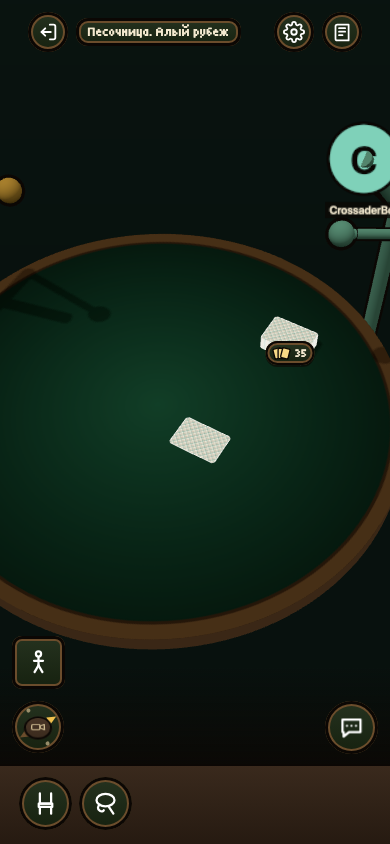
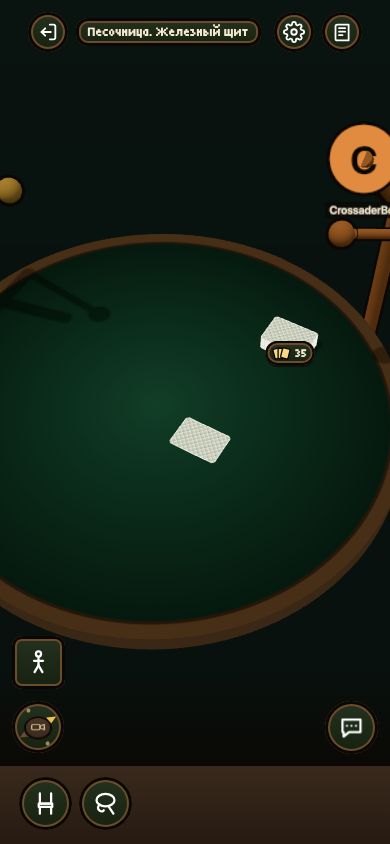
Песочница 3D, окно стопки: размер и место — два независимых выбора (два переключателя в заголовке, оба помнит устройство). Размер: «экран» — зум не меняет окно; «стопки» — растёт и мельчает вместе со стопкой на экране (во сколько раз она стала крупнее или мельче с открытия окна — раньше масштаб упир

Changed region(s): [[0.8308, 0.1232, 1.0, 0.4005], [0.4, 0.0, 0.6769, 0.0616]]

diff --git a/table3d/src/hud.ts b/table3d/src/hud.ts
@@ -334,10 +334,12 @@ export function mountHud(root: HTMLElement, stage: HTMLElement, store: TableStor
    */
   /** Где окно стопки и его веер: одно на рисование и на прицел несомой карты. `n` — сколько мест в веере. */
   /**
-   * ГДЕ ОКНО СТОПКИ И ЕГО ВЕЕР — одно на рисование и на прицел несомой карты. Три способа (`tipMode`, помнит устройство):
-   *   screen  — размер по экрану, место — у стопки (прижато к краям кадра);
-   *   element — прибито к стопке: под ней и её размера — ближе камера, крупнее окно (масштаб `k` от ширины её карты);
-   *   pinned  — там, где открылось (или куда его перенесли за заголовок), и не двигается с камерой.
+   * ГДЕ ОКНО СТОПКИ И ЕГО ВЕЕР — одно на рисование и на прицел несомой карты. Два независимых выбора (помнит устройство):
+   *   размер  «по экрану» — окно своего размера, зум его не меняет;
+   *           «по стопке» — окно растёт и мельчает вместе со стопкой на экране (зум меняет его масштаб: во сколько раз
+   *           стопка стала крупнее или мельче с тех пор, как окно открыли);
+   *   место   «у стопки» — окно прибито к стопке, едет за ней с камерой;
+   *           «свободно» — стоит на той точке экрана, где открылось, камера его не двигает; переносится за заголовок.
    * Всё внутри считается без масштаба; `k` и точка `o` переводят в экран: экран = o + (точка − o)·k.
    */
   function tipLayout(s: Snapshot) {
@@ -345,33 +347,27 @@ export function mountHud(root: HTMLElement, stage: HTMLElement, store: TableStor
     if (!pile || !spot) return null;
     const g = glass(), w = Math.min(g.w - 24, 340);
     const cw = 44, room = w - 24 - cw, drop = fanDrop(pile.cards.length + 1, cw, room), h = 12 + 38 + 30 + cw * 1.4 + drop + 16;
-    let left: number, top: number, k = 1, o = { x: 0, y: 0 };
-    if (tipMode === "element") {
-      k = Math.max(0.35, Math.min(2.2, spot.cardPx / cw));
-      o = { x: spot.x, y: spot.y };
-      left = Math.round(spot.x - w / 2);
-      top = Math.round(spot.y + 36);
-    } else if (tipMode === "pinned") {
-      const at = tipAt(pile.id) ?? { left: Math.round(Math.max(12, Math.min(g.w - w - 12, spot.x - w / 2))), top: Math.round(Math.min(g.h - h - 8, spot.y + 36)) };
-      if (!tipAt(pile.id)) saveTipAt(pile.id, at);
-      left = at.left;
-      top = at.top;
-    } else {
-      left = Math.round(Math.max(12, Math.min(g.w - w - 12, spot.x - w / 2)));
-      top = Math.round(Math.min(g.h - h - 8, spot.y + 36));
-    }
+    // Размер — от стопки на экране в миг открытия окна.
+    if (tipOpenedPx === null) tipOpenedPx = spot.cardPx;
+    const k = tipSize === "stack" ? Math.max(0.25, Math.min(5, spot.cardPx / Math.max(1, tipOpenedPx))) : 1;
+    // У стопки — под ней (по экрану ещё и прижато к краям кадра); свободно — где стоит.
+    const near = { left: Math.round(spot.x - w / 2), top: Math.round(spot.y + 36) };
+    const fit = { left: Math.round(Math.max(12, Math.min(g.w - w - 12, near.left))), top: Math.round(Math.min(g.h - h - 8, near.top)) };
+    let at = tipSize === "screen" ? fit : near;
+    if (tipPlace === "free") { at = tipAt(pile.id) ?? at; if (!tipAt(pile.id)) saveTipAt(pile.id, at); }
+    const { left, top } = at;
+    const o = tipPlace === "free" ? { x: left + w / 2, y: top } : { x: spot.x, y: spot.y + 36 };
     const rowTop = top + 12 + 38 + 30, mid = left + w / 2;
     const slots = (n: number) => handPlan({ fan: true, shrink: false, tuck: false }, n, 1, 1.4, room / cw).map((p) => ({ x: mid + p.x * cw, y: rowTop + p.y * cw + (cw * 1.4) / 2, angle: p.angle }));
     const toScreen = (q: { x: number; y: number }) => ({ x: o.x + (q.x - o.x) * k, y: o.y + (q.y - o.y) * k });
     const fromScreen = (q: { x: number; y: number }) => ({ x: o.x + (q.x - o.x) / k, y: o.y + (q.y - o.y) / k });
     return { pile, left, top, w, h, cw, room, rowTop, mid, slots, k, o, toScreen, fromScreen };
   }
-  const TIP_MODES = ["screen", "element", "pinned"] as const;
-  type TipMode = (typeof TIP_MODES)[number];
-  const TIP_MODE_WORDS: Record<TipMode, string> = { screen: "экран", element: "к стопке", pinned: "на месте" };
   const readStored = <T,>(key: string, or: T): T => { try { const v = localStorage.getItem(key); return v === null ? or : (JSON.parse(v) as T); } catch { return or; } };
   const writeStored = (key: string, v: unknown) => { try { localStorage.setItem(key, JSON.stringify(v)); } catch { /* нет хранилища — живёт, пока открыта вкладка */ } };
-  let tipMode: TipMode = TIP_MODES.includes(readStored<TipMode>("table3d.tipMode", "screen")) ? readStored<TipMode>("table3d.tipMode", "screen") : "screen";
+  let tipSize: "screen" | "stack" = readStored<string>("table3d.tipSize", "screen") === "stack" ? "stack" : "screen";
+  let tipPlace: "stack" | "free" = readStored<string>("table3d.tipPlace", "stack") === "free" ? "free" : "stack";
+  let tipOpenedPx: number | null = null;
   const tipAts: Record<string, { left: number; top: number }> = readStored("table3d.tipAt", {});
   const tipAt = (pile: string) => tipAts[pile] ?? null;
   const saveTipAt = (pile: string, at: { left: number; top: number } | null) => { if (at) tipAts[pile] = at; else delete tipAts[pile]; writeStored("table3d.tipAt", tipAts); };
@@ -400,10 +396,11 @@ export function mountHud(root: HTMLElement, stage: HTMLElement, store: TableStor
     const admin = s.rights.includes("pile.guard"), topId = pile.cards.at(-1)?.id;
     const acts: [string, string, string][] = [["shuffle", GLYPH.shuffle, "Перемешать"], ["sort", GLYPH.suit, "Отсортировать"], ["flip", GLYPH.reverse, "Перевернуть"]];
     // Всё окно — в одной обёртке с масштабом (у «к стопке» он от размера стопки на экране, у прочих — 1).
-    return `<div data-g="deck-tip-frame" data-mode="${tipMode}" data-k="${k.toFixed(3)}" style="position:absolute;left:0;top:0;width:0;height:0;transform-origin:${o.x}px ${o.y}px;transform:scale(${k.toFixed(4)});z-index:40">`
+    return `<div data-g="deck-tip-frame" data-size="${tipSize}" data-place="${tipPlace}" data-k="${k.toFixed(3)}" style="position:absolute;left:0;top:0;width:0;height:0;transform-origin:${o.x}px ${o.y}px;transform:scale(${k.toFixed(4)});z-index:40">`
       + `<div data-g="deck-tip" data-pile="${pile.id}" data-lock="${pile.lock}" style="position:absolute;left:${left}px;top:${top}px;width:${w}px;height:${h}px;box-sizing:border-box;z-index:40;background:${T.well};box-shadow:inset 0 0 0 3px ${T.black},inset 0 0 0 5px ${T.wood},0 6px 0 rgba(11,7,4,.5);border-radius:12px;padding:12px">`
-      + `<div style="display:flex;align-items:center;gap:9px;height:30px;padding-bottom:8px"><span data-tip-drag style="font:400 14px Tiny5,monospace;color:${T.ink};flex:1;align-self:stretch;display:flex;align-items:center;touch-action:none;cursor:${tipMode === "pinned" ? "move" : "default"}">${esc(pile.name ?? "Колода")} · ${pile.cards.length}</span>`
-      + `<span data-tip-mode role="button" title="Как держится окно: по экрану, прибито к стопке или на месте (переносится за заголовок)" style="cursor:pointer;font:400 11px Tiny5,monospace;border-radius:8px;padding:6px 8px;box-shadow:inset 0 0 0 2px ${T.wood};color:${T.gold}">${TIP_MODE_WORDS[tipMode]}</span>`
+      + `<div style="display:flex;align-items:center;gap:9px;height:30px;padding-bottom:8px"><span data-tip-drag style="font:400 14px Tiny5,monospace;color:${T.ink};flex:1;min-width:0;overflow:hidden;white-space:nowrap;align-self:stretch;display:flex;align-items:center;touch-action:none;cursor:${tipPlace === "free" ? "move" : "default"}">${esc(pile.name ?? "Колода")} · ${pile.cards.length}</span>`
+      + `<span data-tip-size role="button" title="Размер окна: по экрану (зум не меняет) или по стопке (растёт и мельчает вместе с ней)" style="cursor:pointer;font:400 10px Tiny5,monospace;border-radius:8px;padding:6px 6px;box-shadow:inset 0 0 0 2px ${T.wood};color:${T.gold};white-space:nowrap">${tipSize === "stack" ? "размер: стопки" : "размер: экран"}</span>`
+      + `<span data-tip-place role="button" title="Место окна: у стопки (едет за ней) или свободно (стоит, где открылось; переносится за заголовок)" style="cursor:pointer;font:400 10px Tiny5,monospace;border-radius:8px;padding:6px 6px;box-shadow:inset 0 0 0 2px ${T.wood};color:${T.gold};white-space:nowrap">${tipPlace === "free" ? "место: своё" : "место: у стопки"}</span>`
       + `<span data-deck-shut role="button" style="cursor:pointer;font:400 11px Tiny5,monospace;border-radius:8px;padding:6px 10px;box-shadow:inset 0 0 0 2px ${T.wood};color:${T.inkDim}">Закрыть</span></div>`
       + `<div style="display:flex;align-items:center;gap:4px;height:26px">`
       + acts.map(([how, glyph, label]) => deckChip(`data-deck-do="${how}"`, glyph, label, false, !pile.lock)).join("")
@@ -545,11 +542,17 @@ export function mountHud(root: HTMLElement, stage: HTMLElement, store: TableStor
     else if (q("[data-journal]")) local.journal = !local.journal;
     else if ((b = q("[data-deck-do]")) && local.deckTip) store.send({ t: "deckDo", pile: local.deckTip, how: b.dataset.deckDo as "shuffle" | "sort" | "flip" });
     else if (q("[data-deck-shut]")) local.deckTip = null;
-    else if (q("[data-tip-mode]")) {
-      tipMode = TIP_MODES[(TIP_MODES.indexOf(tipMode) + 1) % TIP_MODES.length]!;
-      writeStored("table3d.tipMode", tipMode);
-      // «На месте» — там, где окно стоит сейчас.
-      if (tipMode === "pinned" && local.deckTip) saveTipAt(local.deckTip, null);
+    else if (q("[data-tip-size]")) {
+      tipSize = tipSize === "screen" ? "stack" : "screen";
+      writeStored("table3d.tipSize", tipSize);
+      // По стопке — от того, какая она сейчас: окно не прыгает при переключении.
+      tipOpenedPx = null;
+    }
+    else if (q("[data-tip-place]")) {
+      tipPlace = tipPlace === "stack" ? "free" : "stack";
+      writeStored("table3d.tipPlace", tipPlace);
+      // Свободно — там, где окно стоит сейчас.
+      if (tipPlace === "free" && local.deckTip) saveTipAt(local.deckTip, null);
     }
     else if ((b = q("[data-deck-pin]")) && local.deckTip) { const p = s.piles.find((x) => x.id === local.deckTip); if (p) store.send({ t: "deckPin", pile: p.id, on: !p.pin }); }
     else if ((b = q("[data-deck-forever]")) && local.deckTip) { const p = s.piles.find((x) => x.id === local.deckTip); if (p) store.send({ t: "deckForever", pile: p.id, on: !p.forever }); }
@@ -646,7 +649,7 @@ export function mountHud(root: HTMLElement, stage: HTMLElement, store: TableStor
         if (!moved) {
           const now = performance.now();
           if (now - lastGripTap < DOUBLE_TAP_MS) { lastGripTap = 0; const p = store.state.piles.find((x) => x.id === pile); if (p && !p.lock) store.send({ t: "deckDo", pile, how: "flip" }); }
-          else { lastGripTap = now; local.deckTip = local.deckTip === pile ? null : pile; }
+          else { lastGripTap = now; local.deckTip = local.deckTip === pile ? null : pile; tipOpenedPx = null; }
           draw();
           return;
         }
@@ -663,7 +666,7 @@ export function mountHud(root: HTMLElement, stage: HTMLElement, store: TableStor
     }
     // «На месте» — окно переносят за заголовок; место запоминается.
     const head = t.closest<HTMLElement>("[data-tip-drag]");
-    if (head && tipMode === "pinned" && local.deckTip) {
+    if (head && tipPlace === "free" && local.deckTip) {
       e.preventDefault();
       const pile = local.deckTip, from = tipAt(pile);
       if (!from) return;
